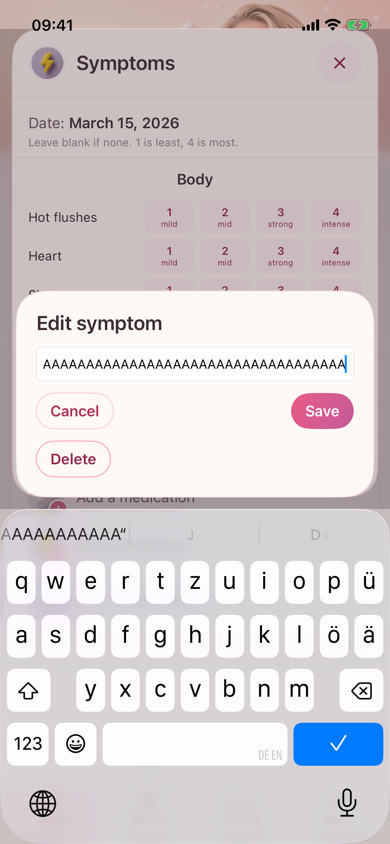
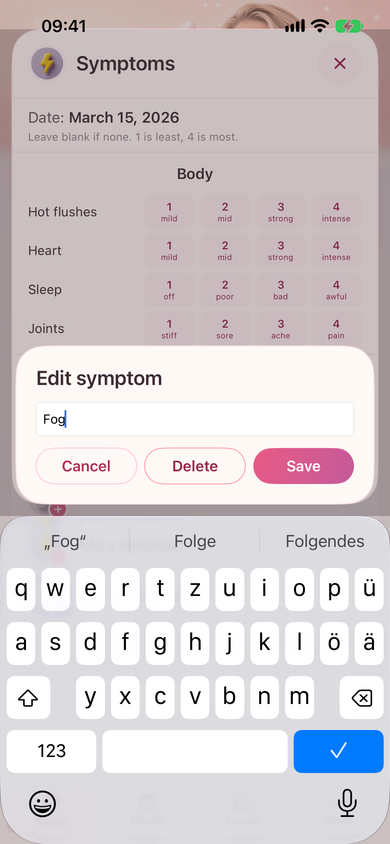
fix(symptoms): put Delete on the edit card row (#92)
The custom-symptom edit card uses the period card's button row. Cancel, Delete, and Save share one line. The add card still shows Cancel and Save only. Delete still asks before it removes the symptom and its scores.

diff --git a/ios/PeriMedi/Features/Cycle/SymptomSheet.swift b/ios/PeriMedi/Features/Cycle/SymptomSheet.swift
@@ -141,21 +141,21 @@ struct SymptomSheet: View {
                     .foregroundStyle(Theme.blush800)
             }
             HStack(spacing: 8) {
-                PillButton(title: app.t("common.cancel"), kind: .secondary) {
+                PillButton(title: app.t("common.cancel"), kind: .secondary, fillsWidth: true) {
                     closeDraft()
                 }
-                Spacer(minLength: 0)
-                commitButton
-            }
-            if case .edit(let id) = nameDraft {
-                PillButton(
-                    title: app.t("common.delete"),
-                    kind: .destructive,
-                    identifier: A11yID.symptomCustomDelete(id.rawValue)
-                ) {
-                    nameFocused = false
-                    nameDraft = .confirmDelete(id)
+                if case .edit(let id) = nameDraft {
+                    PillButton(
+                        title: app.t("common.delete"),
+                        kind: .destructive,
+                        identifier: A11yID.symptomCustomDelete(id.rawValue),
+                        fillsWidth: true
+                    ) {
+                        nameFocused = false
+                        nameDraft = .confirmDelete(id)
+                    }
                 }
+                commitButton
             }
         }
     }
@@ -196,6 +196,7 @@ struct SymptomSheet: View {
                 title: app.t("common.save"),
                 kind: .primary,
                 identifier: A11yID.symptomCustomCreate,
+                fillsWidth: true,
                 action: commitDraft
             )
         case .edit(let id):
@@ -203,6 +204,7 @@ struct SymptomSheet: View {
                 title: app.t("common.save"),
                 kind: .primary,
                 identifier: A11yID.symptomCustomSave(id.rawValue),
+                fillsWidth: true,
                 action: commitDraft
             )
         case .confirmDelete, nil:

diff --git a/.grok/skills/verify-perimedi/features/symptom-sheet.md b/.grok/skills/verify-perimedi/features/symptom-sheet.md
@@ -25,7 +25,7 @@ Cycle → + Symptom (`cycle.action.symptom`).
 | Custom name field | `symptom.custom.add` | In the dialog on top of the sheet, for a new name and for a rename. |
 | Custom name | `symptom.custom.name.{id}` | Underlined name on the row. The test taps it to open the same dialog, then types Fog. |
 | Rename save | `symptom.custom.save.{id}` | Primary pill in that dialog. The dialog title is Edit symptom. The chip then contains Fog. |
-| Delete | `symptom.custom.delete.{id}` | Delete in the name dialog. That dialog’s contents become `Delete Fog and all its past scores?`. Confirm with `confirm.delete`. The custom chip is gone. `cycle.chip.score.hot_flash` still contains `strong`, and reopening the sheet leaves `symptom.score.hot_flash.3` selected. |
+| Delete | `symptom.custom.delete.{id}` | Delete sits on the edit card's button row, between Cancel and Save. That row matches the period card (equal-width pills, fillsWidth). The add card is Cancel and Save only, with no Delete. German Abbrechen, Löschen, and Speichern use that same pill. The journey taps `symptom.custom.delete.{id}`, sees `Delete Fog and all its past scores?`, and taps `confirm.delete`. The custom chip is gone. `cycle.chip.score.hot_flash` still contains `strong`, and reopening the sheet leaves `symptom.score.hot_flash.3` selected. |
 | Body / note | `symptom.body` | On the `A11yID` enum only; the sheet has no note field (`persist` always passes `note: nil`). Do not drive it. |
 | Save | `symptom.save` | On the `A11yID` enum only. First-use uses `sheet.close`. Do not drive it. |
 
